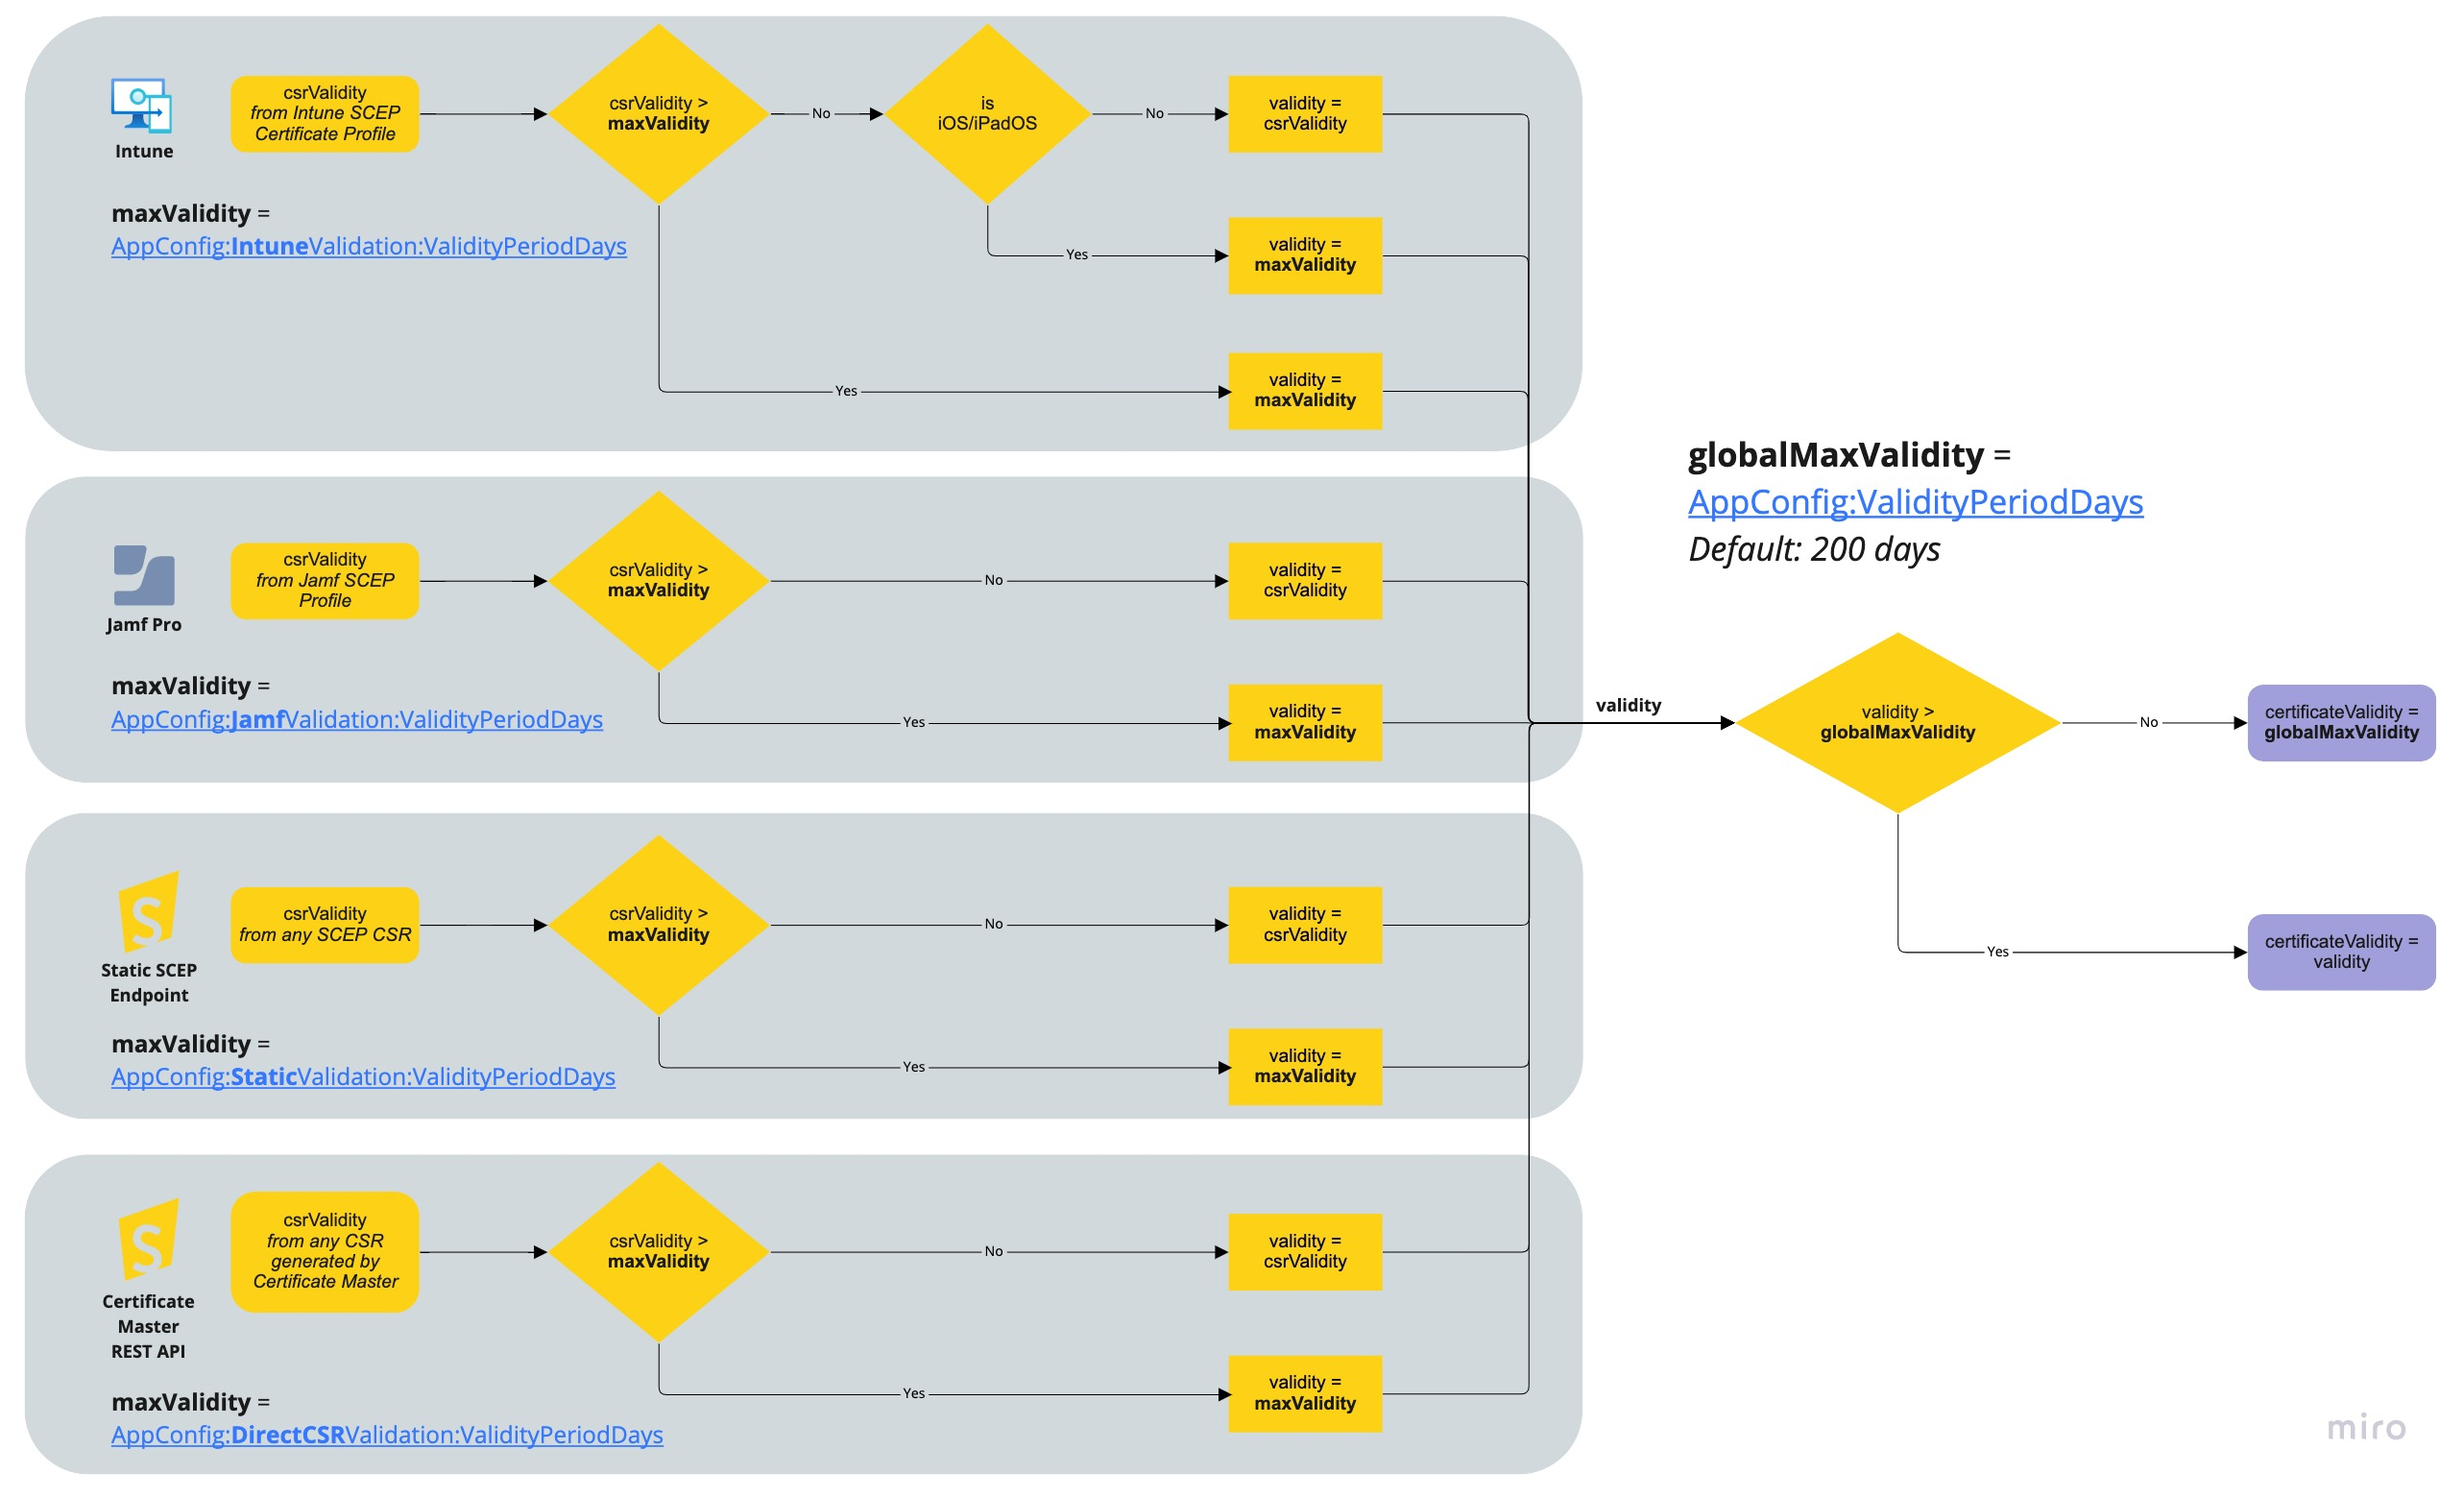
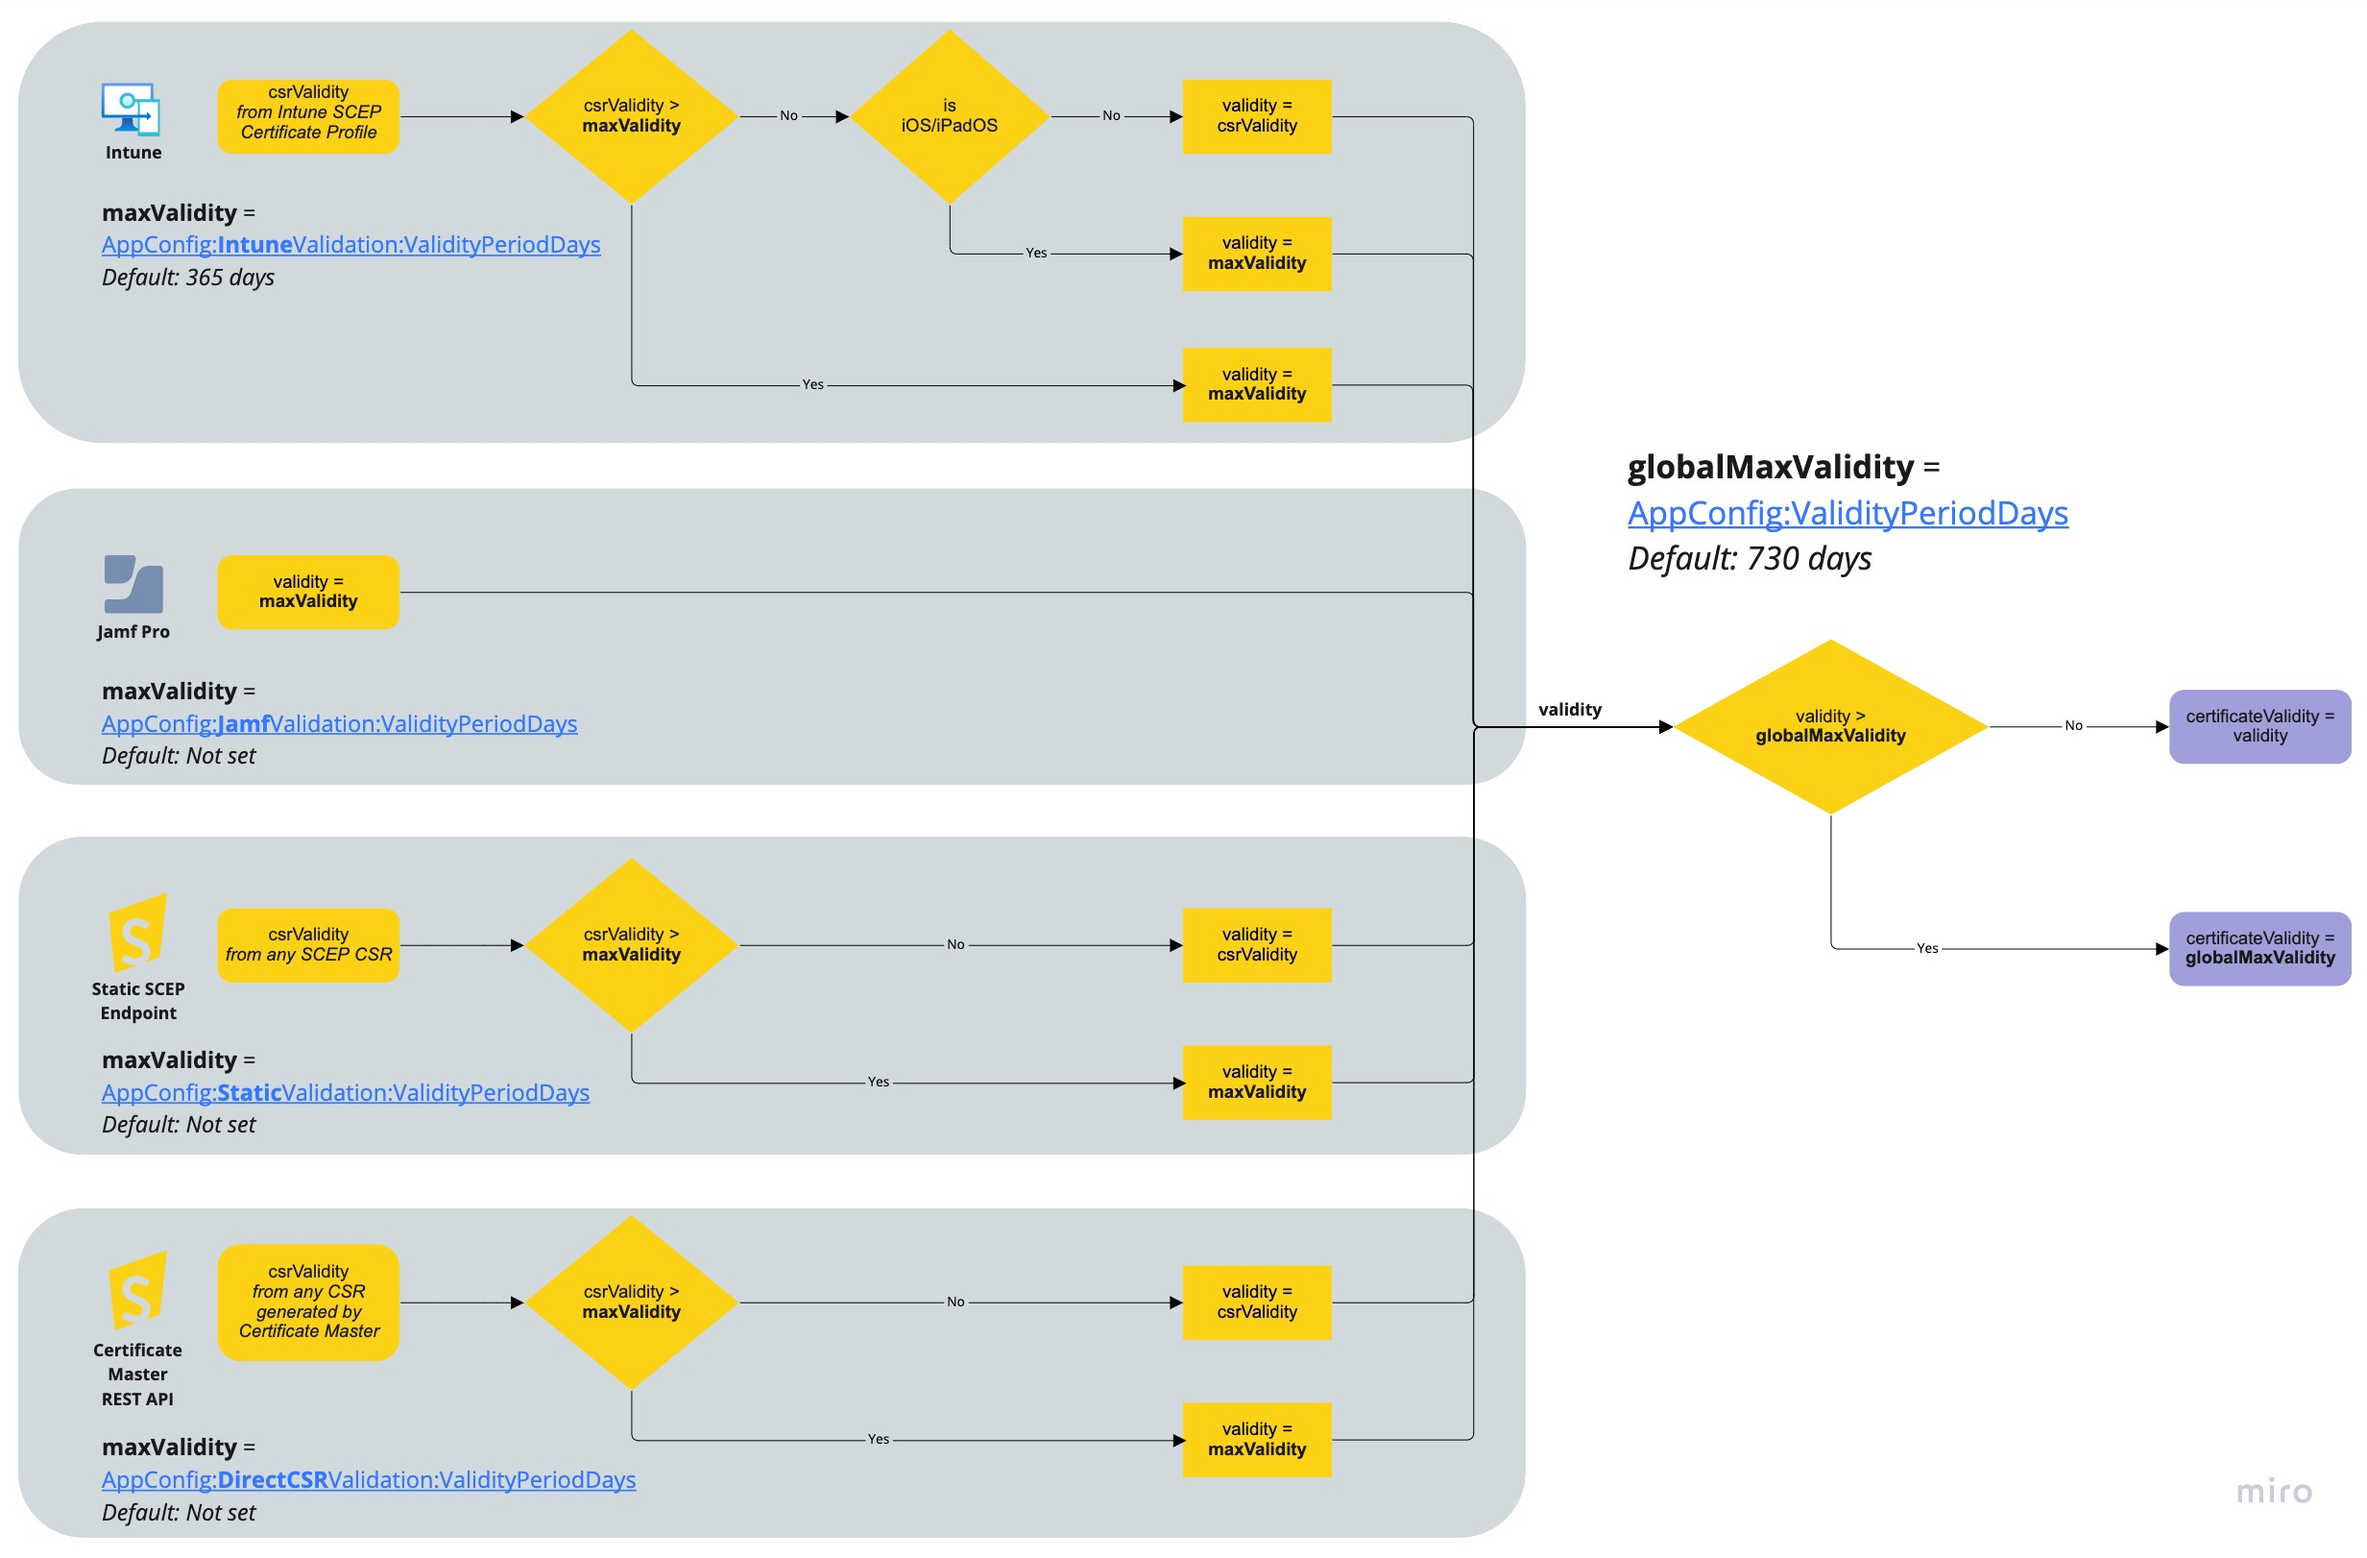
GitBook: [#335] No subject

diff --git a/docs/scepman-configuration/optional/application-settings/certificates.md b/docs/scepman-configuration/optional/application-settings/certificates.md
@@ -38,7 +38,7 @@ You can also configure **shorter** validity periods for each SCEP endpoint. By d
 
 Below image depicts how SCEPman limits the certificate validity period; first on a per-endpoint level and globally afterwards.
 
-<figure><img src="broken-reference" alt=""><figcaption></figcaption></figure>
+<figure><img src="../../../.gitbook/assets/SCEPman Certificate Validity.jpg" alt=""><figcaption></figcaption></figure>
 
 ## AppConfig:ConcurrentSCEPRequestLimit
 
